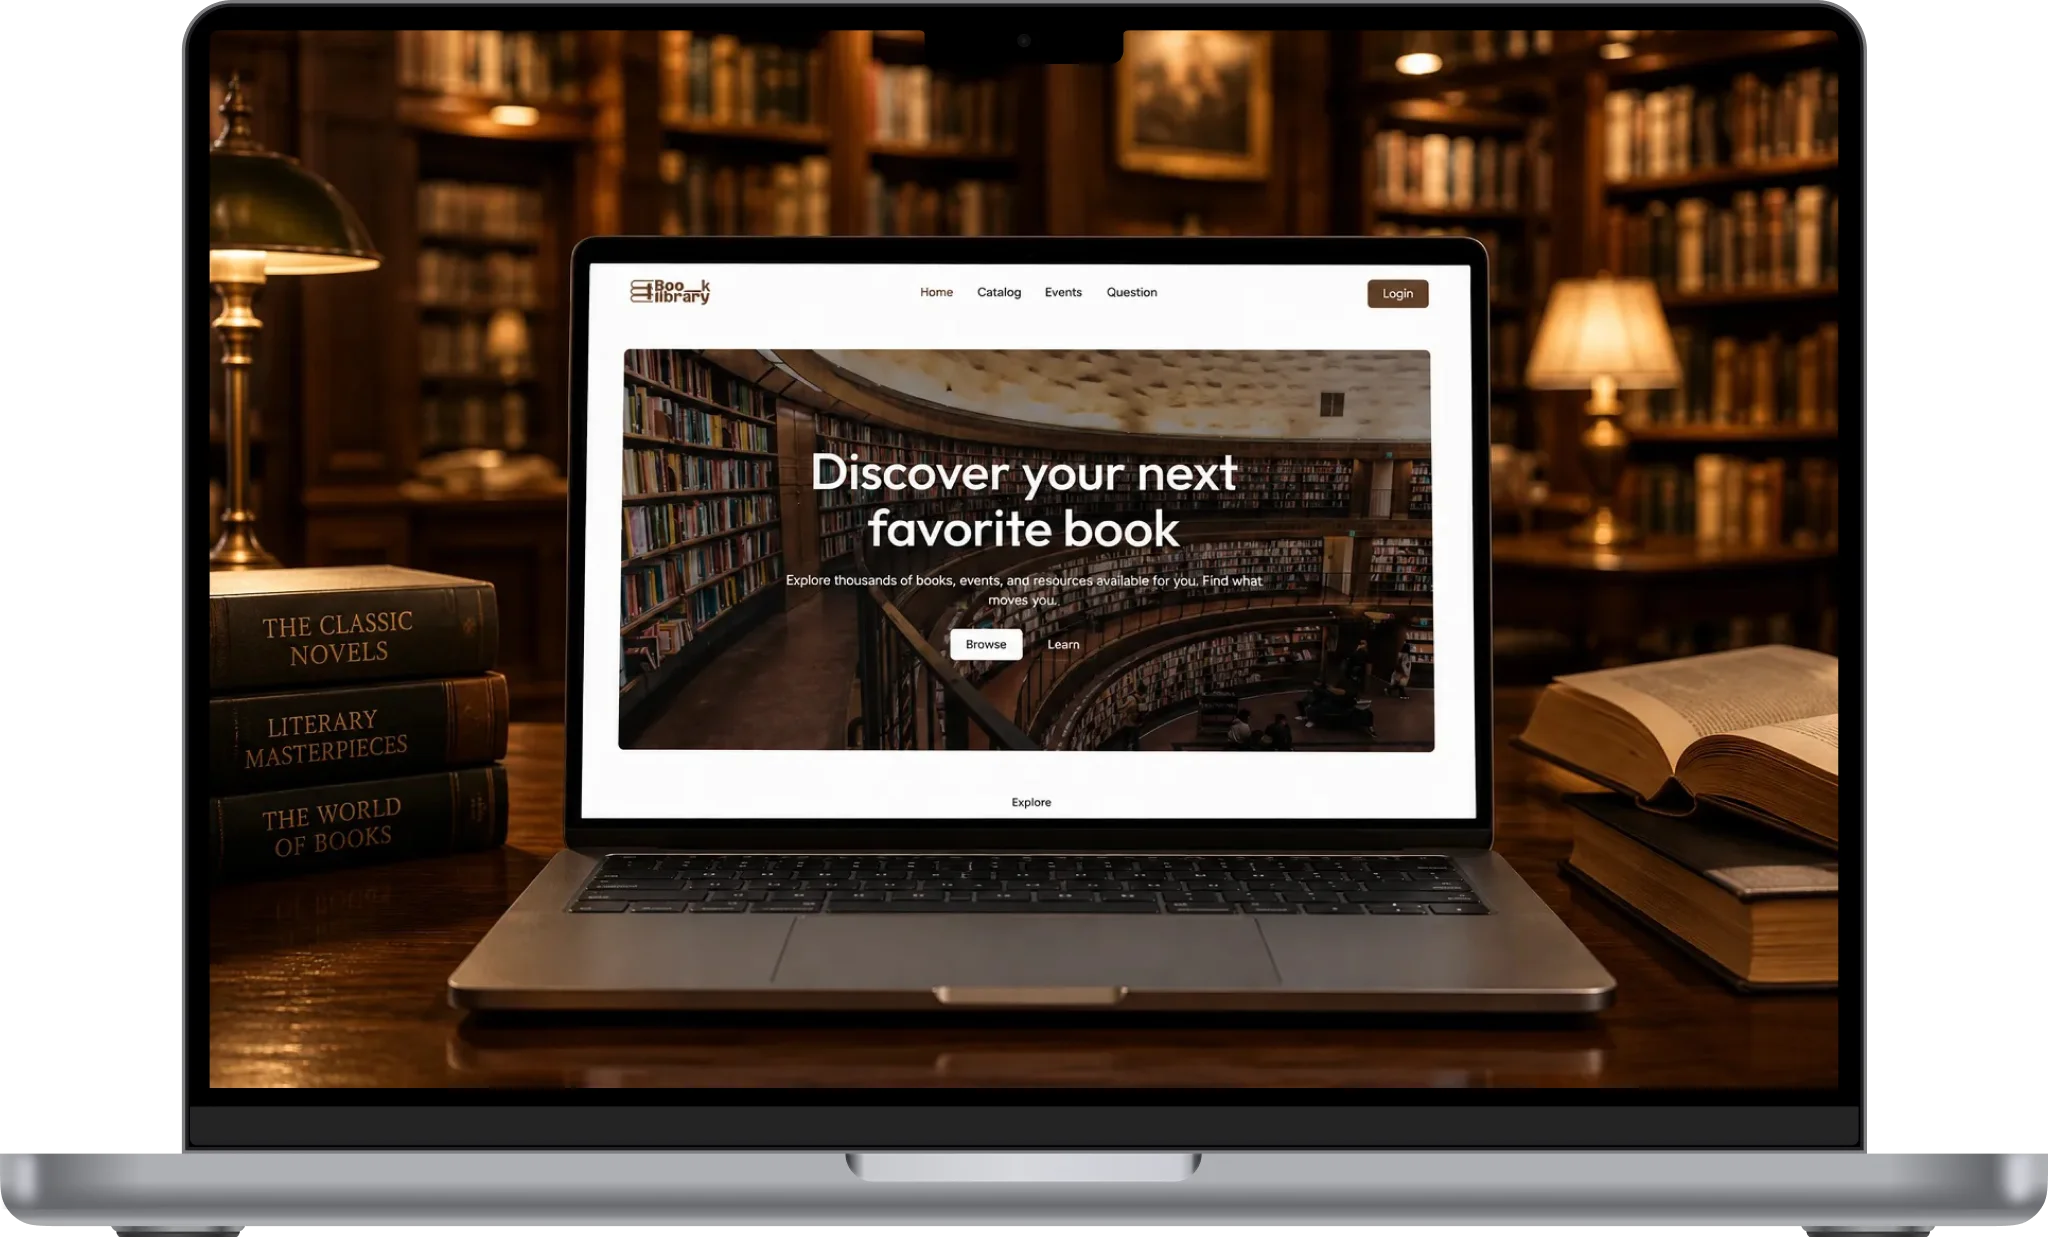
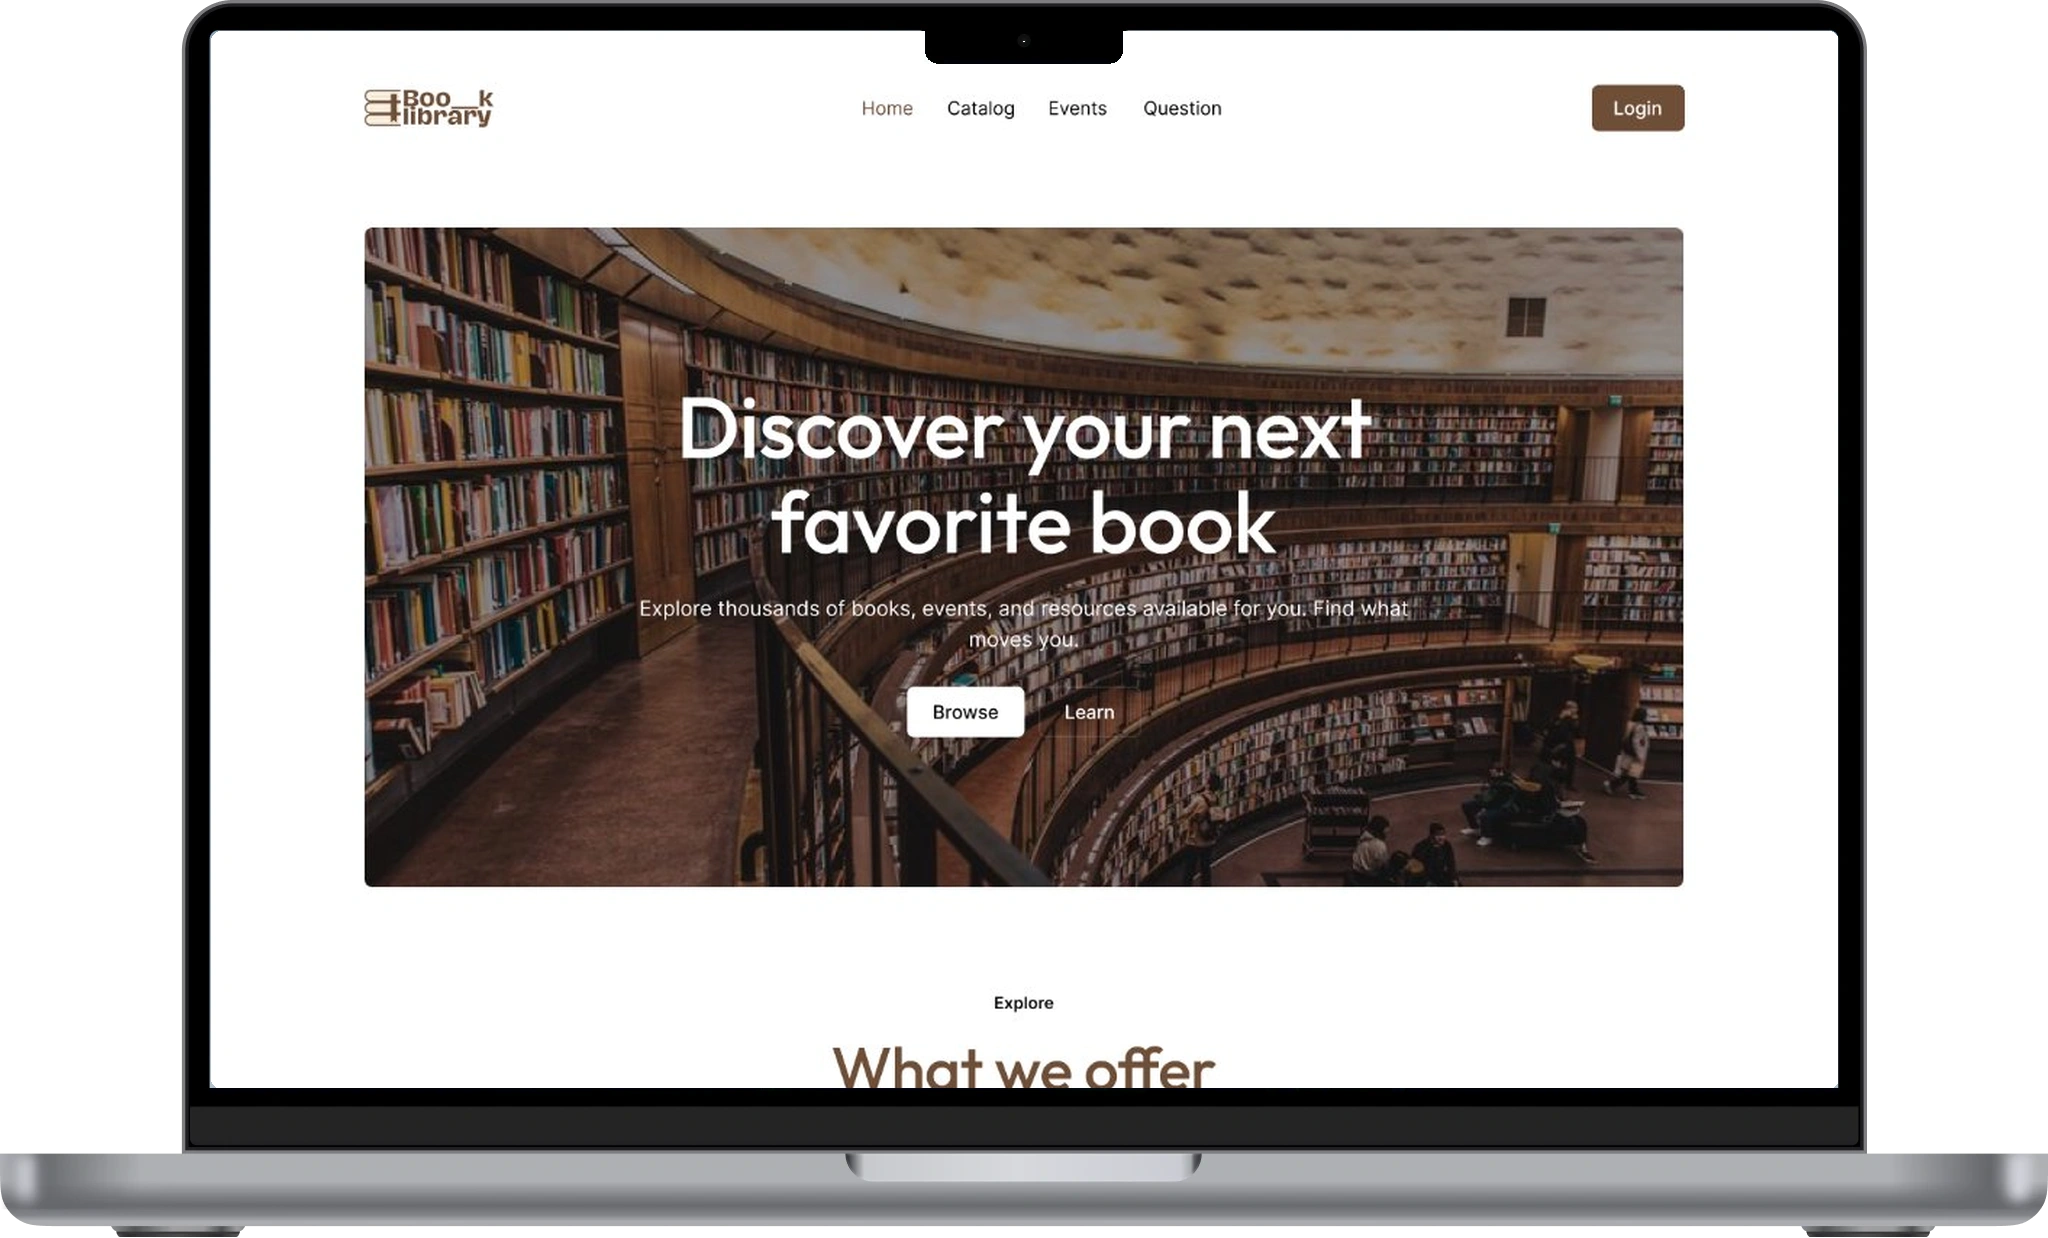
feat: add book library project and update portfolio constants and mockups

diff --git a/src/constants/data.ts b/src/constants/data.ts
@@ -1,5 +1,5 @@
 import type { ComponentType, SVGProps } from "react";
-import booklibrary from "../assets/ChatGPT Image Aug 6, 2026, 01_04_31 PM.webp";
+import booklibraryWeb from "../assets/book-library-web.webp";
 import noteapp from "../assets/ChatGPT Image Aug 6, 2026, 01_49_32 PM.webp";
 import headphone from "../assets/headphone-showcase-web.webp";
 import weather from "../assets/weather-app-web.webp";
@@ -411,28 +411,24 @@ export const projects: project[] = [
     type: "development",
     role: "frontend",
     category: "personal",
-    projectType: "Website Component",
-    team: "Solo Developer",
+    projectType: "Landing Page / UI Showcase",
+    team: "",
     status: "Completed",
     year: "2025",
-    title: "Digital Library Hero Section",
-    problem:
-      "Online reading platforms often lack engaging entry points that encourage users to explore literary collections.",
-    solution:
-      "Designed and coded a modern hero component featuring trending book spotlights, clear navigation, and subtle hover interactions.",
+    title: "Book Library Landing Page",
     description:
-      "An editorial-style hero section for a digital book platform. Explored balanced typography, clean imagery placement, and engaging micro-interactions.",
+      "An educational frontend showcase project built to learn and practice translating UI/UX designs from Figma into clean, modular React code line by line. Focused on mastering component hierarchy, typography hierarchy, responsive layouts, and cross-device adaptation.",
     shortDescription:
-      "A modern hero section for a digital book platform designed for visual clarity and engagement.",
+      "An educational frontend landing page built to practice translating Figma UI designs into clean, responsive React code line by line.",
     keyFeatures: [
-      "Curated book showcase with interactive hover states",
-      "Quick search bar interaction for immediate book discovery",
-      "Responsive typography and fluid scaling",
-      "Clean component structure ready for CMS integration",
+      "Line-by-line translation of Figma UI designs into responsive React components",
+      "Immersive hero section with clear typography hierarchy and call-to-action buttons",
+      "Structured component hierarchy with modular CSS layout techniques",
+      "Cross-device responsive design tested for mobile and desktop screens",
     ],
     outcome:
-      "Refined front-end styling skills and component reusability with clean CSS layouts.",
-    image: booklibrary,
+      "Mastered the workflow of turning Figma prototypes into production-ready React components with clean responsive styling.",
+    image: booklibraryWeb,
     laptopImage: booklibraryLaptop,
     mobileImage: booklibraryMobile,
     tech: [
